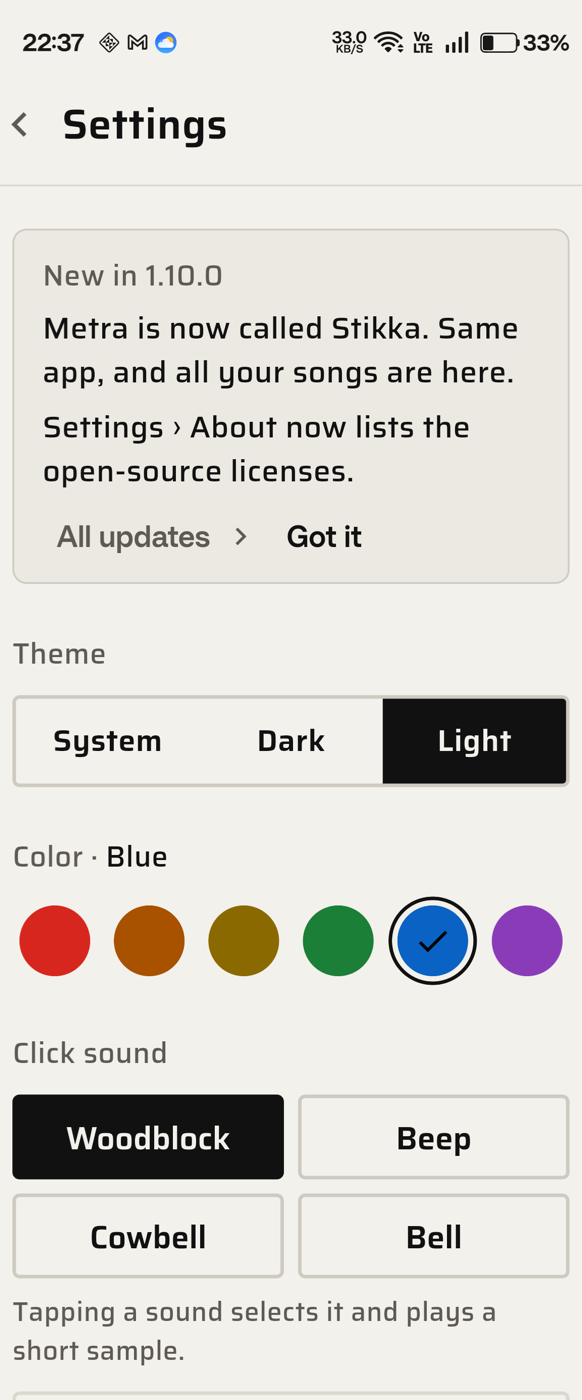
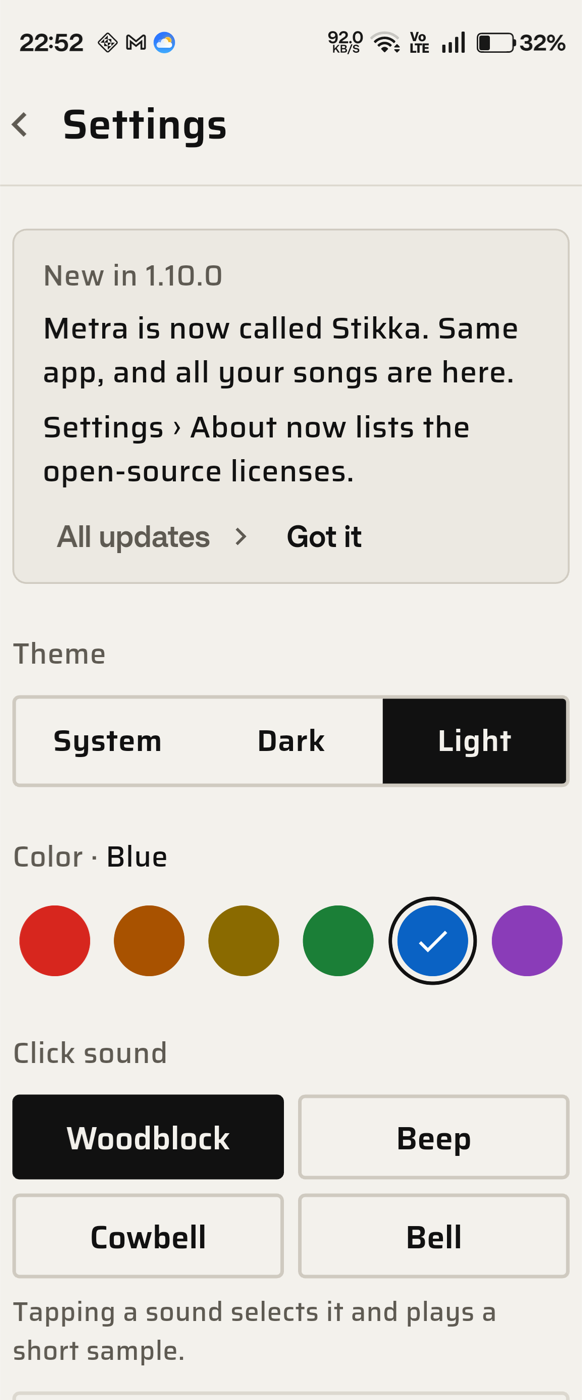
feat: white swatch check in Daylight (handoff 09)

diff --git a/test/ui/settings_screen_test.dart b/test/ui/settings_screen_test.dart
@@ -51,6 +51,7 @@ void main() {
     WidgetTester tester, {
     Size size = const Size(400, 900),
     bool open = true,
+    ThemeData? theme,
   }) async {
     tester.view
       ..physicalSize = size
@@ -77,7 +78,7 @@ void main() {
       ..addSetlist('Rehearsal');
     await tester.pumpWidget(
       MaterialApp(
-        theme: testTheme,
+        theme: theme ?? testTheme,
         home: MetronomeScreen(controller: metronome, library: library),
       ),
     );
@@ -369,6 +370,36 @@ void main() {
     );
     expect(find.bySemanticsLabel('Color, Red, 1 of 6'), findsOneWidget);
   });
+
+  for (final (theme, brightness, check) in [
+    ('Stage Black', Brightness.dark, 0xFF000000),
+    ('Daylight', Brightness.light, 0xFFFFFFFF),
+  ]) {
+    testWidgets(
+      '$theme: the check is ${check == 0xFF000000 ? 'black' : 'white'} '
+      'in every color',
+      (tester) async {
+        await openSettingsScreen(
+          tester,
+          theme: stikkaTheme(
+            StikkaColors.of(brightness, AccentColor.red),
+            brightness,
+          ),
+        );
+        for (final color in AccentColor.values) {
+          await tester.tap(find.byKey(SettingsScreen.colorKey(color)));
+          await tester.pumpAndSettle();
+          final icon = tester.widget<Icon>(
+            find.descendant(
+              of: find.byKey(SettingsScreen.colorKey(color)),
+              matching: find.byIcon(Icons.check),
+            ),
+          );
+          expect(icon.color!.toARGB32(), check, reason: color.label);
+        }
+      },
+    );
+  }
 
   testWidgets('volume sliders; Reset restores only the volumes', (
     tester,

diff --git a/lib/src/ui/theme.dart b/lib/src/ui/theme.dart
@@ -376,10 +376,13 @@ abstract final class CoverColors {
       StikkaColors.of(Brightness.dark, color).accent;
 }
 
-/// Settings › Color: the check on the chosen swatch is black in every
-/// color and theme (ui-spec.md "Settings" › "Color").
+/// Settings › Color: the check on the chosen swatch (ui-spec.md
+/// "Settings" › "Color"), black in Stage Black and white in Daylight,
+/// whose colors are darker; in every color.
 abstract final class SwatchColors {
-  static const check = Color(0xFF000000);
+  static Color check(Brightness brightness) => brightness == Brightness.dark
+      ? const Color(0xFF000000)
+      : const Color(0xFFFFFFFF);
 }
 
 /// The motion tokens (ui-spec.md "Motion"): one set of values, used for

diff --git a/lib/src/ui/settings_screen.dart b/lib/src/ui/settings_screen.dart
@@ -364,10 +364,10 @@ class SettingsScreen extends StatelessWidget {
                             ring: color == chosen ? colors.text : null,
                           ),
                           child: color == chosen
-                              ? const Icon(
+                              ? Icon(
                                   Icons.check,
                                   size: 22,
-                                  color: SwatchColors.check,
+                                  color: SwatchColors.check(brightness),
                                 )
                               : null,
                         ),

diff --git a/docs/design/ui-spec.md b/docs/design/ui-spec.md
@@ -75,7 +75,7 @@ Theme setting: System (default) / Dark / Light, persisted. System follows the OS
 ### Color (the user's accent color)
 Settings › Color picks the accent: **Red (default), Orange, Yellow, Green, Blue, Purple**. Only the accent tokens change; every other token stays as above. Canvas: "Detail · Accent color in Settings (decided: A, swatches)" and "Detail · Accent colors in both themes".
 - **What follows the color:** accent (tempo needle, current-song marker, checkmarks, accent text such as the heads-up line), beat accent resting and sounding, the pulse's accent, the primary button in Stage Black (Start / Stop, Save…), and anything else that uses the accent token today, such as selected-tab lines, the count-in tag and the tuner's "In tune".
-- **What stays red in every color:** danger. Delete, Remove and every other destructive action, their dialogs, and error text. It gets its own token, **danger**: #FF3B30 Stage Black, #D7261E Daylight. Where the app uses red today to mean "destructive", it must use danger, not accent.
+- **What stays red in every color:** danger (and **dangerResting**, #8E2620 / #E9B0AA, the softer red behind a row before swipe-to-delete is armed). Delete, Remove and every other destructive action, their dialogs, and error text. It gets its own token, **danger**: #FF3B30 Stage Black, #D7261E Daylight. Where the app uses red today to mean "destructive", it must use danger, not accent.
 - **In Daylight the primary button stays black** (#111111, label #F3F1EC) in every color, as today. The color shows in beats, the needle and accent text.
 - **Labels on the primary button stay black (#000000)** in Stage Black for all six; each passes 4.5:1.
 - **Outside the app:** the lock-screen / notification cover's tempo needle follows the color. The status-bar icon (white, one color by Android's rule) and the Quick Settings tile (system colors) don't.
@@ -447,7 +447,7 @@ A full page opened from the **gear button** at the top right of the main screen 
 
 - **Top bar:** back chevron and "Settings". Changes apply immediately; there's no Save.
 - **Theme:** System / Dark / Light segmented control.
-- **Color** (right under Theme): heading "Color · Blue" (muted "Color", the chosen name in the normal text color). Below it, one row of six 40px circles spread across the width, each in a 48dp touch target, in the order Red, Orange, Yellow, Green, Blue, Purple. The chosen one has a 2px ring in the text color with a 3px gap, and a black check inside. Tap = the whole app switches at once (no Save, no confirm; the setting is saved at once), with a ~200ms color crossfade, never moving anything. A tap on the chosen one does nothing. TalkBack reads "Color, Blue, selected, 5 of 6". Default Red; a missing or unknown saved value loads as Red. At 115% text the circles stay one row (they don't contain text).
+- **Color** (right under Theme): heading "Color · Blue" (muted "Color", the chosen name in the normal text color). Below it, one row of six 40px circles spread across the width, each in a 48dp touch target, in the order Red, Orange, Yellow, Green, Blue, Purple. The chosen one has a 2px ring in the text color with a 3px gap, and a check inside: black in Stage Black, white (#FFFFFF) in Daylight (the Daylight colors are darker; white passes 4.5:1 on all six). Each circle shows that color's accent in the current theme. Tap = the whole app switches at once (no Save, no confirm; the setting is saved at once), with a ~200ms color crossfade, never moving anything. A tap on the chosen one does nothing. TalkBack reads "Color, Blue, selected, 5 of 6". Default Red; a missing or unknown saved value loads as Red. At 115% text the circles stay one row (they don't contain text).
 - **Click sound:** a 2×2 grid of buttons: Woodblock, Beep, Cowbell, Bell. Default Woodblock. (Classic was removed: it sounded almost the same as Woodblock. A saved "classic" setting loads as Woodblock.) The four are kept clearly apart by character and pitch range: Woodblock (wood, mid), Beep (pure tone), Cowbell (a high, clean agogo-style metal bell, not the drum-machine square-wave one), Bell (a small bright ding, highest of all). Cowbell and Bell are defined in `sounds/click_prototypes.py` (chosen by ear); Woodblock and Beep are unchanged. Selected = filled white. Tapping selects it and plays a short sample. Every tap plays the sample, including a tap on the sound that's already selected, so you can listen as many times as you like. A new tap restarts the sample.
 - **Sound on part changes:** one switch, default off, with the hint "For songs with parts: a higher click on the first beat of each new part". See Song parts › Heads-up.
 - **Vibration:** one switch, "Vibrate on touch", default on, with the hint "Only when vibration is on in your phone's settings". It can only turn the app's haptics off; it never overrides the system setting.

diff --git a/PLAN.md b/PLAN.md
@@ -127,3 +127,4 @@ Decisions made since the history was moved out (2026-10-23), newest last. The fu
 - Top panels close from above (handoff 03, spec "Above a top panel closes it too", "Which close motion"): `_TopPanelPage` lays an opaque tap catcher over everything above the panel (the top row and the status bar). A tap on the panel's own button (its rect, saved when it opened) pops with the shrink into the button; any other tap there calls `PanelMotionState.closeOutside`, as do the dim and the grab strip's outside part. With `PanelMotion.leaveOnOutsideTap` (top panels only) that close uses the plain leave: no scale, 6px up (`StikkaMotion.arriveRise`), over the route's ~180ms reverse. Long-presses and drags above the panel are absorbed and do nothing (the handoff: a long-press there does nothing), unlike the dim, where any touch closes. Back and predictive back keep the button motion. Bottom panels are unchanged, though the spec's "all panels" line now says a tap outside uses the plain leave: their leave direction isn't specified (asked in the report).
 - Rename Metra → Stikka (handoff 06, spec "Name"). Everything a user sees says Stikka; IDs that installs and data depend on keep the old name with a comment "Old name, kept on purpose" (applicationId `com.dror.metra`/`.debug`, Kotlin package, notification channel ID, the `metra/…` method channels, keystore and alias, Google Group `metra-testers`). The saved files never had the name in them. **Import is name-independent:** `parseShared` tries every block matching an optional `<letters><version>:` prefix plus 16+ base64url characters, in order, and takes the first that decodes; no prefix reads as version 1, any other version is skipped; text around it (the readable part, any "Shared from …") is ignored. New exports write `stikka1:`; 1.9.0 and older only read `metra1:`, accepted because testers update through Play. Fixtures from the real 1.9.0 code (checked out from `dcdb11a`): `test/fixtures/export_v1/metra-1.9.0-{set,song}.txt`. `test/platform/name_guard_test.dart` fails on a capitalized "Metra" in lib/ (non-comment lines), the manifest, gradle, What's new (except the rename line) and the store listing; lowercase IDs never show, so it needs no allowlist. Internal names followed in a separate commit (pubspec `stikka`, `StikkaColors` etc.). GitHub repo renamed to drormos/stikka (old links redirect); the privacy URL points at the new one. macOS `PRODUCT_NAME` became Stikka (bundle IDs unchanged).
 - Accent color (handoff 08; spec "Color"): `AccentColor` (model, saved as `accentColor`, unknown → Red) and `StikkaColors.of(brightness, color)`, which swaps only accent, accentSounding, accentResting, pulseAccentResting and (Stage Black) primary from a table in `theme.dart`; Daylight's primary stays #111. New tokens `danger` and `dangerResting` (today's red accent / accent resting) for destructive actions and error text: the delete dialog, the swipe-to-remove background, Free play's Discard, error text and `colorScheme.error`. `dangerResting` isn't in the spec; it keeps the unarmed swipe background exactly as before. The color crossfades through `MaterialApp`'s theme animation (200 ms, none with "Remove animations"): `StikkaColors.lerp` lerps within one palette and still snaps between Stage Black and Daylight. The media cover's needle follows the color (cover files are named per tempo and color); the Quick Settings tile and notification have no accent; the launcher icon stays red. Swatches are the theme's own accent; at 320dp each target narrows to ~45dp so the six stay in one row. The hardcoded-color guard also catches `Color.fromARGB` / `fromRGBO`. Saved format 11 (`_v10ToV11`, snapshot `library_v11/`).
+- Swatch check (handoff 09): `SwatchColors.check(brightness)`, black in Stage Black, white in Daylight (the Daylight accents are darker; white passes 4.5:1 on all six). The spec now lists `dangerResting`.

diff --git a/docs/design/handoff/reports/09-check-daylight.md b/docs/design/handoff/reports/09-check-daylight.md
@@ -1,0 +1,18 @@
+# 09 · Color swatches: white check in Daylight: report
+
+Not released (the release build comes right after this, as Dror asked). `flutter analyze` is clean and `flutter test` passes (1725 tests). I checked it on Dror's phone in Stikka dev, at the phone's 115% text, and set it back to System and Red afterwards.
+
+## What changed
+1. The check inside the chosen circle is white (#FFFFFF) in Daylight for all six colors. It stays black in Stage Black.
+2. Test: for each theme, I tap all six circles in turn and check the check's color (black in Stage Black, white in Daylight).
+
+`dangerResting` was already built in 08 with the values the spec now lists (#8E2620 / #E9B0AA), so nothing changed there.
+
+## Decisions
+- The check color is one theme-file function of the theme (`SwatchColors.check`), not a new color token: only this check uses it.
+
+## Screenshots (phone, 115% text)
+- `docs/design/screens/color-settings-blue-light-115.png` (replaced): Settings in Daylight with Blue chosen and the white check. The phone's side dots are cropped off.
+
+## For Dror to check
+None needed.

diff --git a/docs/design/handoff/done/09-check-daylight.md b/docs/design/handoff/done/09-check-daylight.md
@@ -1,0 +1,8 @@
+# 09 · Color swatches: white check in Daylight
+
+Spec: ui-spec.md › Settings › "Color" (check color) and › Theme › Color (dangerResting). Re-read them. A follow-up to 08's question; the spec now also lists your dangerResting token.
+
+1. The check inside the chosen circle is white (#FFFFFF) in Daylight for all six colors, and stays black in Stage Black.
+2. Test: the check color per theme. Screenshot `docs/design/screens/color-settings-blue-light-115.png` again (on the phone, as in 08, set back to System and Red afterwards).
+
+Don't release. Write the report, move this file to done/, commit.
